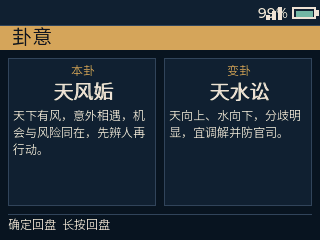
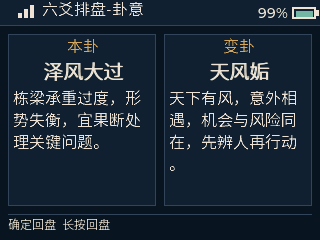
feat(liuyao): enlarge meaning labels and explanation text

Changed region(s): [[0.0, 0.0, 1.0, 0.6417], [0.5312, 0.7, 0.5625, 0.7292]]

diff --git a/main/apps/liuyao/app_liuyao.cc b/main/apps/liuyao/app_liuyao.cc
@@ -896,15 +896,14 @@ void meaning_column(uint8_t right, const char *kind, const char *name,
                     const char *meaning) {
     const int x = right ? 164 : 8;
     lv_obj_t *box = panel(s_screen, x, 34, 148, 172);
-    label(box, kind, &liuyao_font_12, UI_WARNING, 8, 5, 132, 15,
-          LV_TEXT_ALIGN_CENTER);
+    label(box, kind, &buddy_font_16, UI_WARNING, 8, 2, 132, 22, LV_TEXT_ALIGN_CENTER);
     lv_obj_t *title = label(box, name, &liuyao_title_20, UI_TEXT,
-                            8, 22, 132, 24, LV_TEXT_ALIGN_CENTER);
+                            8, 26, 132, 24, LV_TEXT_ALIGN_CENTER);
     lv_obj_t *bold = label(box, name, &liuyao_title_20, UI_TEXT,
-                           9, 22, 132, 24, LV_TEXT_ALIGN_CENTER);
-    lv_obj_t *body = ui_pixel_label(box, meaning, &liuyao_font_12, UI_TEXT);
-    lv_obj_set_pos(body, 4, 50);
-    lv_obj_set_size(body, 140, 114);
+                           9, 26, 132, 24, LV_TEXT_ALIGN_CENTER);
+    lv_obj_t *body = ui_pixel_label(box, meaning, &buddy_font_16, UI_TEXT);
+    lv_obj_set_pos(body, 4, 54);
+    lv_obj_set_size(body, 140, 112);
     lv_label_set_long_mode(body, LV_LABEL_LONG_WRAP);
     lv_obj_set_style_text_align(body, LV_TEXT_ALIGN_LEFT, 0);
     lv_obj_set_style_text_line_space(body, 2, 0);

diff --git a/tests/test_liuyao_ui.py b/tests/test_liuyao_ui.py
@@ -55,6 +55,9 @@ for line_label in ('初爻', '二爻', '三爻', '四爻', '五爻', '上爻'):
 assert '世%u应%u' not in app
 assert 'label(box, name, &buddy_font_16, UI_WARNING, 4, y, 36, 20);' in app
 assert 'label(box, value, &buddy_font_16, UI_TEXT, 44, y, 252, 20);' in app
+assert 'label(box, kind, &buddy_font_16, UI_WARNING, 8, 2, 132, 22, LV_TEXT_ALIGN_CENTER);' in app
+assert 'ui_pixel_label(box, meaning, &buddy_font_16, UI_TEXT)' in app
+assert 'lv_obj_set_size(body, 140, 112);' in app
 assert 'meta_row_text(meta, 40, "旬空", text);' in app
 assert 'home_profile_get(&profile)' in app
 assert 'BAZI_TIME_STANDARD' in app

diff --git a/docs/CURRENT.md b/docs/CURRENT.md
@@ -20,7 +20,7 @@
 - 事项清单：全机只有一份清单；支持添加、完成、单独删除和清除全部已完成事项，旧的五份命名清单会自动展开迁移。
 - 小智：WebSocket 语音对话、Opus 音频、设备控制和本地 MCP 工具。
 - 八字：公历/农历、性别、早晚子时、标准时/真太阳时、10 个城市、四柱、大运和流年。
-- 六爻：起卦方式使用 240×320 竖屏，不要求选择事项类别；时间法直接按当前设备时间成盘，手动摇卦以三枚钱币逐爻摇六次，保留钱面与 6/7/8/9 并支持 0–6 个动爻。确认后切换为 320×240 横屏，显示本卦/变卦、六神、六亲纳甲、世应、居中的旬空和伏神；无动爻时只显示本卦。确定进入双卦白话解释，不设单爻详参页。
+- 六爻：起卦方式使用 240×320 竖屏，不要求选择事项类别；时间法直接按当前设备时间成盘，手动摇卦以三枚钱币逐爻摇六次，保留钱面与 6/7/8/9 并支持 0–6 个动爻。确认后切换为 320×240 横屏，显示本卦/变卦、六神、六亲纳甲、世应、居中的旬空和伏神；无动爻时只显示本卦。确定进入双卦白话解释，卦意页的本卦/变卦标签与解读正文使用 16px，不设单爻详参页。
 - 万年历：1900–2100 两行大字月历，每格显示公历和日干支；日期详情包含 6×2 十二时辰时干支表，时干、时支按各自五行着色，年月跳转继续保留。
 - 主题：经典绿、旅行仪器、像素白、霓虹黑、宣纸朱砂、青金守夜六套整机配色，保存在 NVS。
 
@@ -29,9 +29,9 @@
 - 版本：`1.0.0`
 - 当前源码使用标准语义化版本号，作为这套定制固件的首个稳定基线。
 - 本地应用镜像：3,419,504 字节
[2 lines of base64/hex data omitted]
 - 本地完整镜像：3,485,040 字节
[2 lines of base64/hex data omitted]
 - 上述为本地非公开发布构建；发布前仍需按对应配置重新构建并复核。
 
 ## 验收状态
@@ -49,7 +49,7 @@
 - 真机通过万年历两行大字月历、每格日干支、选中农历摘要、日期详情、交节日、年月选择、五周/六周月份窗口和返回今天测试。
 - 真机通过日期详情十二时辰 `6×2` 布局、时干在上/时支在下、无时辰名称标签、
   时干与时支独立五行着色、当前时辰高亮，以及底部按键提示无重叠检查。
-- 真机重新烧录应用分区后通过六爻串口按键与截图检查：竖屏起卦方式页、手动摇卦空盘、720ms 钱币摇动与逐爻落定、有爻时长按确定重摇、空盘时长按确定返回、六爻完成页、横屏双卦主盘（含两个动爻）、卦意页、时间起卦盘面、横竖屏恢复均正常；截图中的钱面、爻值、`X →`/`O →`、世应与双卦名可读。按键由串口模拟，实体按键手感与摇动主观观感仍需人工确认。
+- 真机重新烧录应用分区后通过六爻串口按键与截图检查：竖屏起卦方式页、手动摇卦空盘、720ms 钱币摇动与逐爻落定、有爻时长按确定重摇、空盘时长按确定返回、六爻完成页、横屏双卦主盘（含两个动爻）、卦意页（本卦/变卦标签与解读正文 16px）、时间起卦盘面、横竖屏恢复均正常；截图中的钱面、爻值、`X →`/`O →`、世应与双卦名可读。按键由串口模拟，实体按键手感与摇动主观观感仍需人工确认。
 - 真机随机摇卦尚未复现无动爻盘面；该路径由核心主机测试和 UI 静态检查覆盖，盘面右侧显示“无动爻”。
 - 六爻真机进入时空闲堆约 138 KB、最大连续块约 68 KB；进入手动摇卦或横屏盘面后约 121–123 KB，返回起卦方式后回升到约 138 KB。截图抓取期间会临时占用约 15 KB 缓冲。
 - 手动摇卦的核心、UI、字库、构建、合并镜像、分区、固件布局和 SRAM 检查均通过；完整主机回归仍需在具备 host C/C++ 编译器的环境补跑。

diff --git a/docs/liuyao-app-design.md b/docs/liuyao-app-design.md
@@ -455,6 +455,7 @@
 - 卦名：20px，使用已覆盖的 `ui_font_20`；缺字时改用 `buddy_font_16`。
 - 摇卦页钱面：20px `liuyao_title_20` 的“背/字”。
 - 详参标题：20px。
+- 卦意页“本卦/变卦”标签与解读正文：16px `buddy_font_16`；卦名保持 20px `liuyao_title_20`。
 - 正文与底部说明：16px。
 - 爻值与取数过程：Montserrat 14 或现有 32px 数字字体。
 
